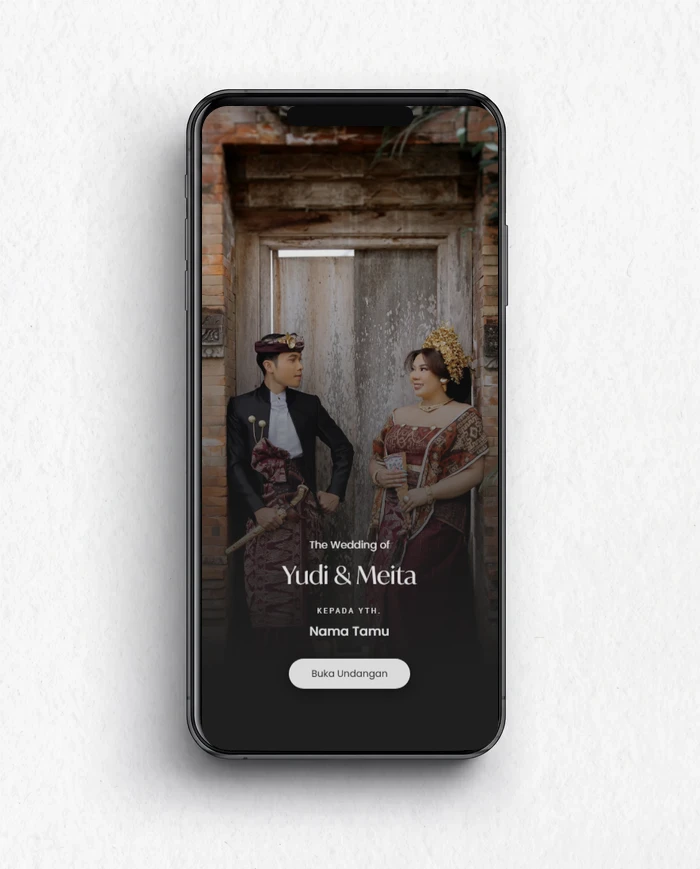
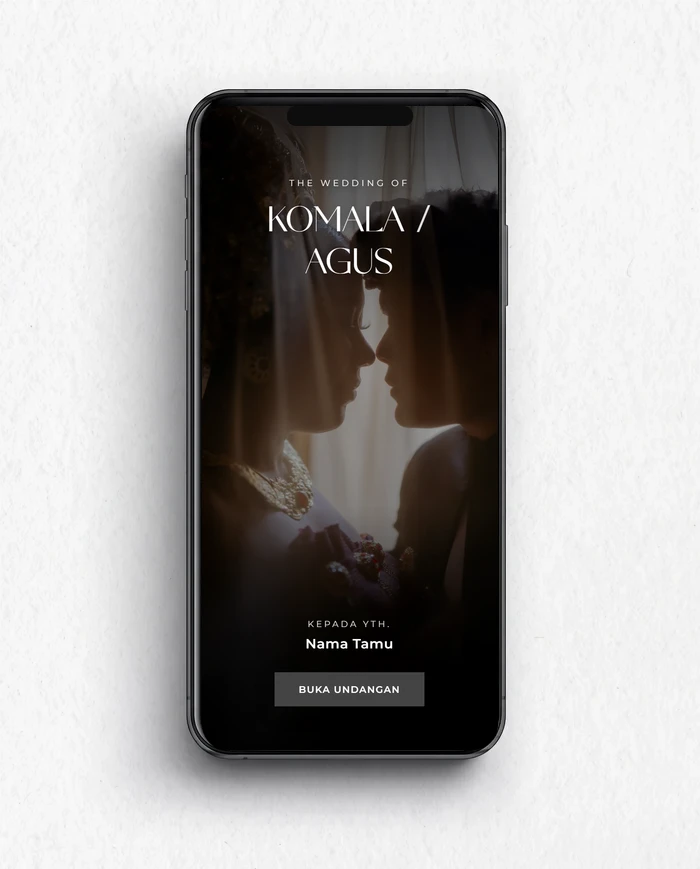
feat(catalog): add Nocturne template and pricing
Register the Nocturne template in platform settings, landing page cards,
and promotional pricing tiers. Update LLM context files and optimize
the Nocturne cover asset.

- Add Nocturne and Allure entries to platform settings and special deals
- Update template pricing tiers across landing page and documentation
- Reflect new template catalog in llms.txt and middleware context
- Optimize Nocturne cover webp asset to reduce bundle size
- Enable allowedHosts in Vite development server configuration

Changed region(s): [[0.27, 0.1243, 0.72, 0.87]]

diff --git a/src/services/platform-settings.ts b/src/services/platform-settings.ts
@@ -68,19 +68,20 @@ const defaults: PlatformSettings = {
   home_booking_heading: 'Ceritakan undangan Anda.',
   home_booking_cta: 'Hubungi via WhatsApp',
   home_hero_seal_text: 'SENADDA • DIGITAL STUDIO BALI • UNDANGAN •',
-  home_stat_number: '9+',
+  home_stat_number: '10+',
   home_stat_label: 'Koleksi\nEksklusif',
   home_template_cards: [
     { key: "allure", name: "Allure", category: "pernikahan", price: "Rp 350.000", promoPrice: "Rp 250.000" },
+    { key: "nocturne", name: "Nocturne", category: "pernikahan", price: "Rp 350.000", promoPrice: "Rp 250.000" },
     { key: "lumiere", name: "Lumiere", category: "pernikahan", price: "Rp 450.000", promoPrice: "Rp 300.000" },
     { key: "lumiere-metatah", name: "Lumiere", category: "metatah", price: "Rp 450.000", promoPrice: "Rp 300.000" },
     { key: "lumiere-metatah-v2", name: "Lumiere v2", category: "metatah", price: "Rp 450.000", promoPrice: "Rp 300.000" },
     { key: "atelier", name: "Atelier", category: "pernikahan", price: "Rp 450.000", promoPrice: "Rp 300.000" },
-    { key: "editorial", name: "Editorial", category: "pernikahan", price: "Rp 350.000", promoPrice: "Rp 250.000" },
+    { key: "editorial", name: "Editorial", category: "pernikahan", price: "Rp 300.000", promoPrice: "Rp 200.000" },
     { key: "deauville", name: "Deauville", category: "pernikahan", price: "Rp 300.000", promoPrice: "Rp 200.000" },
+    { key: "terre", name: "Terre", category: "pernikahan", price: "Rp 200.000", promoPrice: "Rp 150.000" },
     { key: "air", name: "Air", category: "pernikahan", price: "Rp 200.000", promoPrice: "Rp 150.000" },
     { key: "noir", name: "Noir", category: "pernikahan", price: "Rp 200.000", promoPrice: "Rp 150.000" },
-    { key: "terre", name: "Terre", category: "pernikahan", price: "Rp 300.000", promoPrice: "Rp 200.000" },
   ],
   meta_title: 'Senadda - Undangan Digital Bali',
   meta_description: 'Jasa dan platform pembuatan undangan digital elegan di Bali untuk pernikahan, pawiwahan adat Bali, hingga upacara metatah/mepandes. Desain eksklusif, fitur RSVP WhatsApp & musik.',

diff --git a/src/middleware.ts b/src/middleware.ts
@@ -22,8 +22,12 @@ Selamat datang di Senadda, platform pembuatan undangan digital yang premium, ele
 
 ## Koleksi Template
 - Lumiere (Rp 300.000)
-- Editorial (Rp 250.000)
+- Atelier (Rp 300.000)
+- Allure (Rp 250.000)
+- Nocturne (Rp 250.000)
+- Editorial (Rp 200.000)
 - Deauville (Rp 200.000)
+- Terre (Rp 150.000)
 - Air (Rp 150.000)
 - Noir (Rp 150.000)
 
